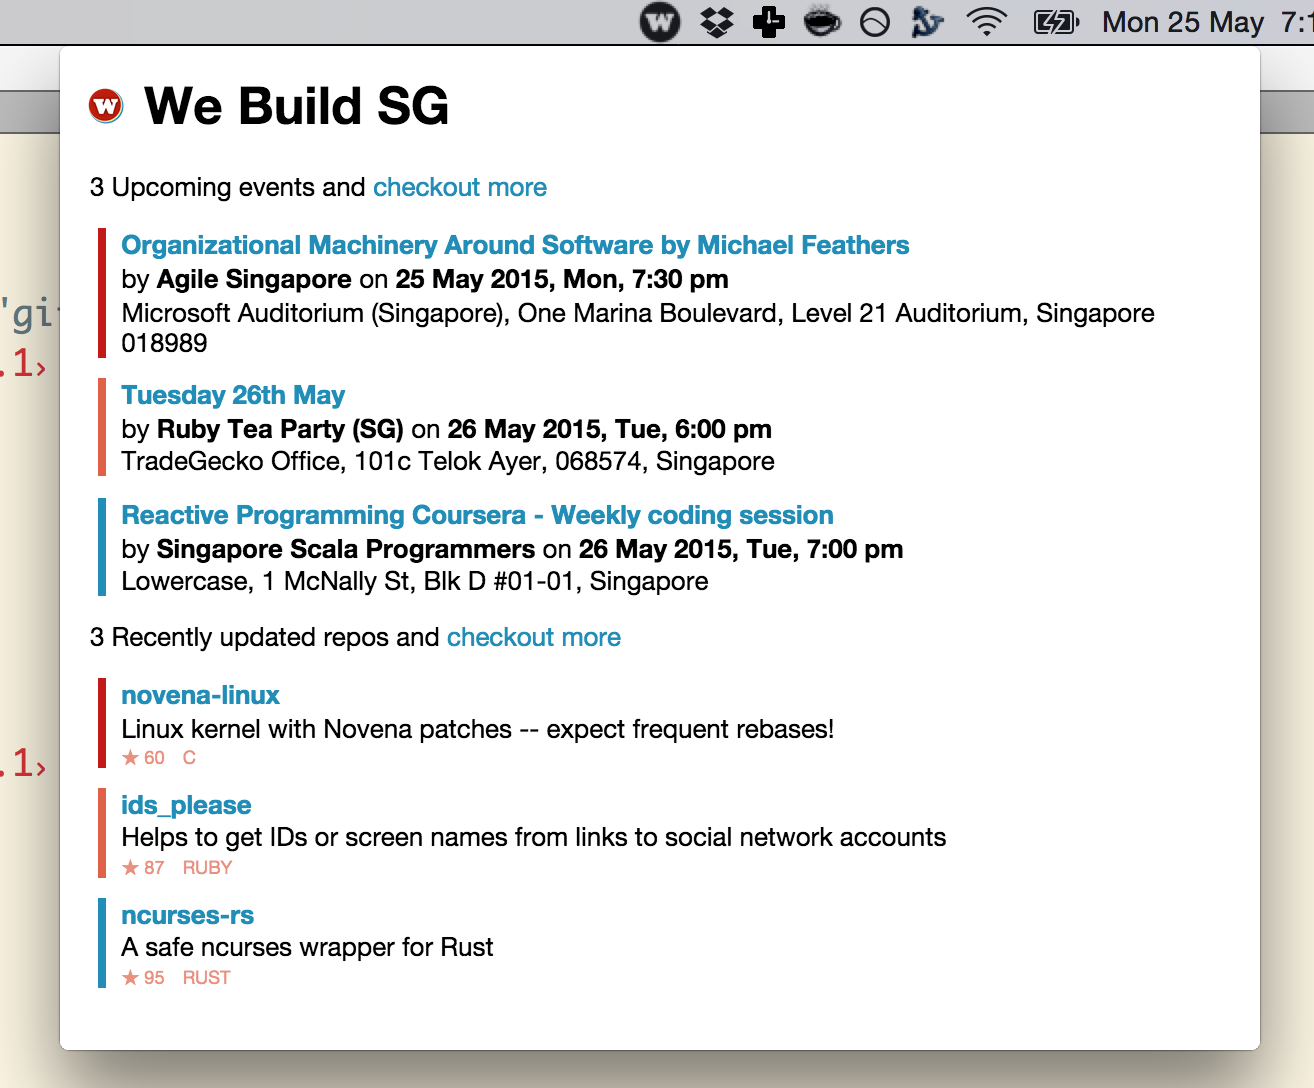
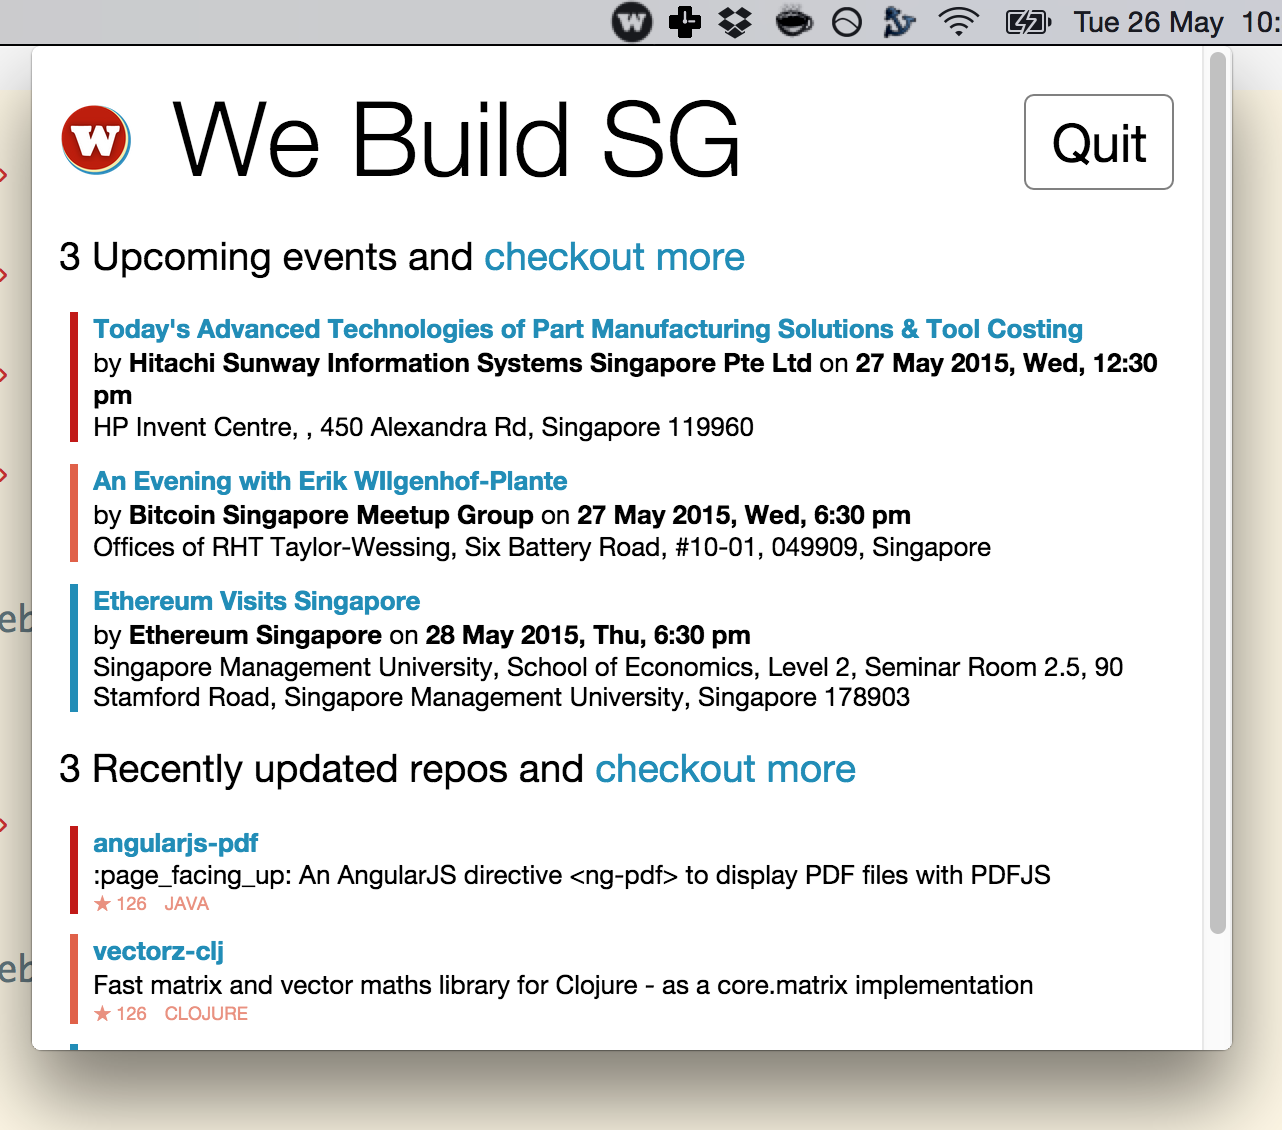
feature: add quit app button. close #2

Changed region(s): [[0.0, 0.0, 1.0, 1.0], [0.8112, 0.0938, 0.9048, 0.1562]]

diff --git a/script.js b/script.js
@@ -1,4 +1,5 @@
 var path = require('path');
+var ipc = require('ipc');
 
 function renderTemplate(type, data) {
   var templateSource = document.getElementById('template-' + type).innerHTML;
@@ -21,7 +22,7 @@ function createNotification(events) {
   })
 }
 
-function callAPI(type) {
+function callAPI(type, willNotify) {
   require('request').get({
     url: 'https://webuild.sg/api/v1/' + type,
     json: true
@@ -29,18 +30,22 @@ function callAPI(type) {
     var data = {};
     data[type] = body[type].slice(0, 3);
 
-    if (type === 'events') {
+    if (type === 'events' && willNotify) {
       createNotification(data[type] );
     }
     renderTemplate(type, data);
   });
 }
 
-callAPI('events');
-callAPI('repos');
+document.getElementById('quit').addEventListener('click', function() {
+  ipc.sendSync('event', 'quit');
+})
+
+callAPI('events', false);
+callAPI('repos', false);
 
 var CronJob = require('cron').CronJob;
 new CronJob('0 0,30 * * * *', function() {
-  callAPI('events');
-  callAPI('repos');
+  callAPI('events', true);
+  callAPI('repos', true);
 }, null, true, 'Asia/Singapore');

diff --git a/index.html b/index.html
@@ -6,7 +6,7 @@
 </head>
 <body>
   <h1><img src="logo.png" alt="Logo" class="logo">We Build SG</h1>
-
+  <button on-click="quit" id="quit" class="pull-right btn">Quit</button>
   <script id="template-events" type="text/x-handlebars-template">
     <ul class="list">
       {{#events}}
@@ -31,9 +31,9 @@
     </ul>
   </script>
 
-  <p>3 Upcoming events and <a href="https://webuild.sg">checkout more</a></p>
+  <h2>3 Upcoming events and <a href="https://webuild.sg">checkout more</a></h2>
   <div id="result-events"><div class="loader">Loading...</div></div>
-  <p>3 Recently updated repos and <a href="https://webuild.sg">checkout more</a></p>
+  <h2>3 Recently updated repos and <a href="https://webuild.sg">checkout more</a></h2>
   <div id="result-repos"><div class="loader">Loading...</div></div>
 
   <script src="lib/handlebars.js"></script>

diff --git a/index.css b/index.css
@@ -17,11 +17,16 @@ header {
   text-align: center;
 }
 
-header h1 {
-  font-size: 60px;
-  font-weight: 100;
+h1 {
+  font-size: 4em;
+  font-weight: 200;
   margin: 0;
   padding: 0;
+  display: inline;
+}
+
+h2 {
+  font-weight: normal;
 }
 
 p {
@@ -35,6 +40,25 @@ a:link, a:visited {
 
 a:hover, a:active {
   text-decoration: underline;
+}
+
+.pull-right {
+  float: right;
+}
+
+.btn {
+  font-size: 2em;
+  border-radius: 5px;
+  background-color: white;
+  outline: none;
+  border: 1px solid #808080;
+  padding: .3em .5em;
+  margin-top: .4em;
+}
+
+.btn:hover {
+  background: #6bc1e3;
+  cursor: pointer;
 }
 
 .info {

diff --git a/index.js b/index.js
@@ -1,6 +1,8 @@
 'use strict';
 
 var menubar = require('menubar');
+var app = require('app');
+var ipc = require('ipc');
 
 var mb = menubar({
   dir: __dirname,
@@ -10,4 +12,8 @@ var mb = menubar({
 
 mb.on('ready', function ready () {
   console.log('Checkout We Build SG menubar app!');
+
+  ipc.on('event', function(event, arg) {
+    if(arg === 'quit') app.quit();
+  });
 });
